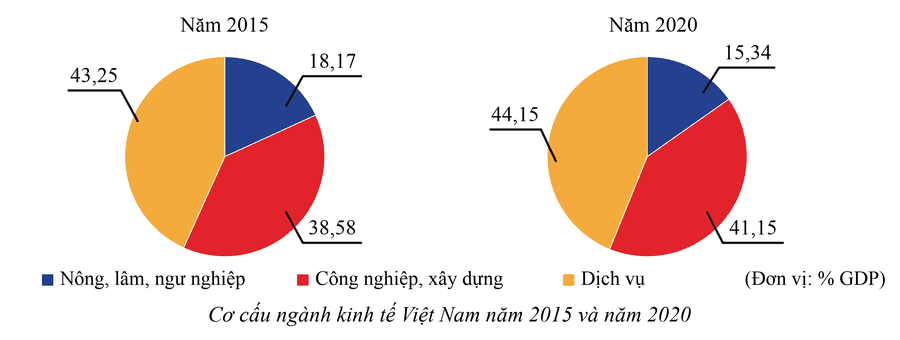
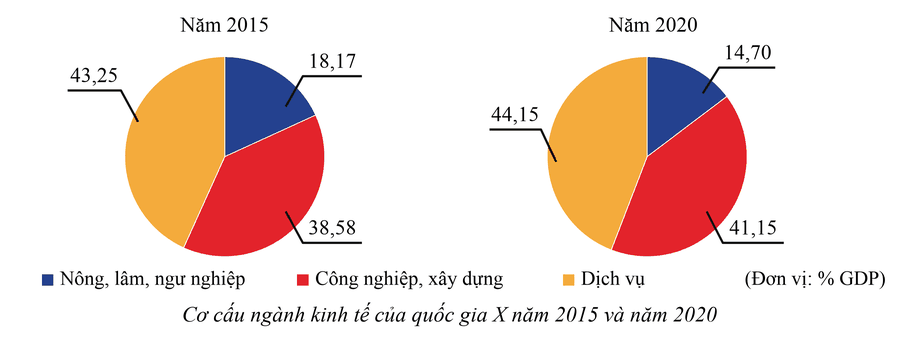
Fix three figures: polycondensation water, class table, sector chart
- img022: nylon-6,6 releases (2n − 1)H₂O, not (n − 1)H₂O.
- img085: contiguous classes [44;46) … [54;56) ([50;52) was missing).
- img023: a fictional country X; 2020 shares now sum to 100 %.

diff --git a/src/theory_review/img085.html b/src/theory_review/img085.html
@@ -3,6 +3,6 @@
 <style>.bk{font-size:1.2em;line-height:0;vertical-align:-0.03em}</style>
 <table style="width:757px;font-size:21.5px">
 <colgroup><col style="width:153px"><col style="width:115px"><col style="width:102px"><col style="width:92px"><col style="width:101px"><col style="width:102px"><col style="width:92px"></colgroup>
-<tr style="height:49px"><td>Chiều dài (cm)</td><td><span class="bk">[</span>44;&#8201;46<span class="bk">)</span></td><td><span class="bk">[</span>46;&#8201;48<span class="bk">)</span></td><td><span class="bk">[</span>48;&#8201;50<span class="bk">)</span></td><td><span class="bk">[</span>52;&#8201;54<span class="bk">)</span></td><td><span class="bk">[</span>54;&#8201;56<span class="bk">)</span></td><td><span class="bk">[</span>56;&#8201;58<span class="bk">)</span></td></tr>
+<tr style="height:49px"><td>Chiều dài (cm)</td><td><span class="bk">[</span>44;&#8201;46<span class="bk">)</span></td><td><span class="bk">[</span>46;&#8201;48<span class="bk">)</span></td><td><span class="bk">[</span>48;&#8201;50<span class="bk">)</span></td><td><span class="bk">[</span>50;&#8201;52<span class="bk">)</span></td><td><span class="bk">[</span>52;&#8201;54<span class="bk">)</span></td><td><span class="bk">[</span>54;&#8201;56<span class="bk">)</span></td></tr>
 <tr style="height:39px"><td>Số trẻ</td><td>3</td><td>3</td><td>10</td><td>15</td><td>7</td><td>2</td></tr>
 </table>

diff --git a/src/theory_review/img022.html b/src/theory_review/img022.html
@@ -6,4 +6,4 @@ sub{font-size:0.62em;vertical-align:-0.35em}
 .arr{display:inline-flex;flex-direction:column;align-items:center;line-height:1;vertical-align:0.62em;margin:0 0.05em}
 .arr .lab{font-size:0.5em;margin-bottom:0.05em}
 </style>
-<div class="eq">nH<sub>2</sub>&#8201;N<span class="bk">[</span>CH<sub>2</sub><span class="bk">]</span><sub>6</sub>&#8201;NH<sub>2</sub> + nHOOC<span class="bk">[</span>CH<sub>2</sub><span class="bk">]</span><sub>4</sub>&#8201;COOH<span class="arr"><span class="lab">xt&#8201;,&#8201;t<sup style="font-size:0.7em">o</sup></span><svg width="98" height="12" viewBox="0 0 98 12"><line x1="0" y1="6" x2="96" y2="6" stroke="#111" stroke-width="1.3"/><path d="M88,1.5 L97,6 L88,10.5" fill="none" stroke="#111" stroke-width="1.3"/></svg></span>Z + (n − 1)H<sub>2</sub>O</div>
+<div class="eq">nH<sub>2</sub>&#8201;N<span class="bk">[</span>CH<sub>2</sub><span class="bk">]</span><sub>6</sub>&#8201;NH<sub>2</sub> + nHOOC<span class="bk">[</span>CH<sub>2</sub><span class="bk">]</span><sub>4</sub>&#8201;COOH<span class="arr"><span class="lab">xt&#8201;,&#8201;t<sup style="font-size:0.7em">o</sup></span><svg width="98" height="12" viewBox="0 0 98 12"><line x1="0" y1="6" x2="96" y2="6" stroke="#111" stroke-width="1.3"/><path d="M88,1.5 L97,6 L88,10.5" fill="none" stroke="#111" stroke-width="1.3"/></svg></span>Z + (2n − 1)H<sub>2</sub>O</div>

diff --git a/src/theory_review/img023.py b/src/theory_review/img023.py
@@ -1,7 +1,7 @@
 from graphs_kit import *
 from matplotlib.patches import Wedge, Rectangle
 
-# GDP structure by sector, 2015 and 2020 (% GDP); figure number dropped from the caption.
+# GDP structure by sector of a fictional country X, 2015 and 2020 (% GDP; each year sums to 100).
 # Laid out in the original's pixel frame.
 fid = 'img023'
 W, H = orig_size(fid)
@@ -26,11 +26,11 @@ def callout(text, inner, corner, end, label_xy):
 
 
 pie(236, 164.5, [18.17, 38.58, 43.25])
-pie(679.5, 164.5, [15.34, 41.15, 44.15])
+pie(679.5, 164.5, [14.70, 41.15, 44.15])
 callout('18,17', (300, 112), (318, 80), (380, 80), (349, 66))
 callout('38,58', (300, 222), (318, 255), (380, 255), (349, 241))
 callout('43,25', (145, 128), (127, 95), (71, 95), (99, 81))
-callout('15,34', (738, 98), (755, 71), (814, 71), (785, 57))
+callout('14,70', (738, 98), (755, 71), (814, 71), (785, 57))
 callout('41,15', (742, 222), (759, 255), (823, 255), (791, 241))
 callout('44,15', (584, 170), (568, 136), (514, 136), (541, 122))
 ax.text(*P(236, 28), 'Năm 2015', ha='center', va='center', fontsize=15)
@@ -39,7 +39,7 @@ for x, c, s in [(44, C[0], 'Nông, lâm, ngư nghiệp'), (312, C[1], 'Công ngh
     ax.add_patch(Rectangle(P(x, 300), 12, 12, fc=c, ec='none'))
     ax.text(*P(x + 19, 294), s, ha='left', va='center', fontsize=14.5)
 ax.text(*P(930, 294), '(Đơn vị: % GDP)', ha='right', va='center', fontsize=14.5)
-ax.text(*P(472, 330), 'Cơ cấu ngành kinh tế Việt Nam năm 2015 và năm 2020', ha='center', va='center',
+ax.text(*P(472, 330), 'Cơ cấu ngành kinh tế của quốc gia X năm 2015 và năm 2020', ha='center', va='center',
         fontsize=15.5, style='italic')
 ax.set_xlim(0, W)
 ax.set_ylim(0, H)
